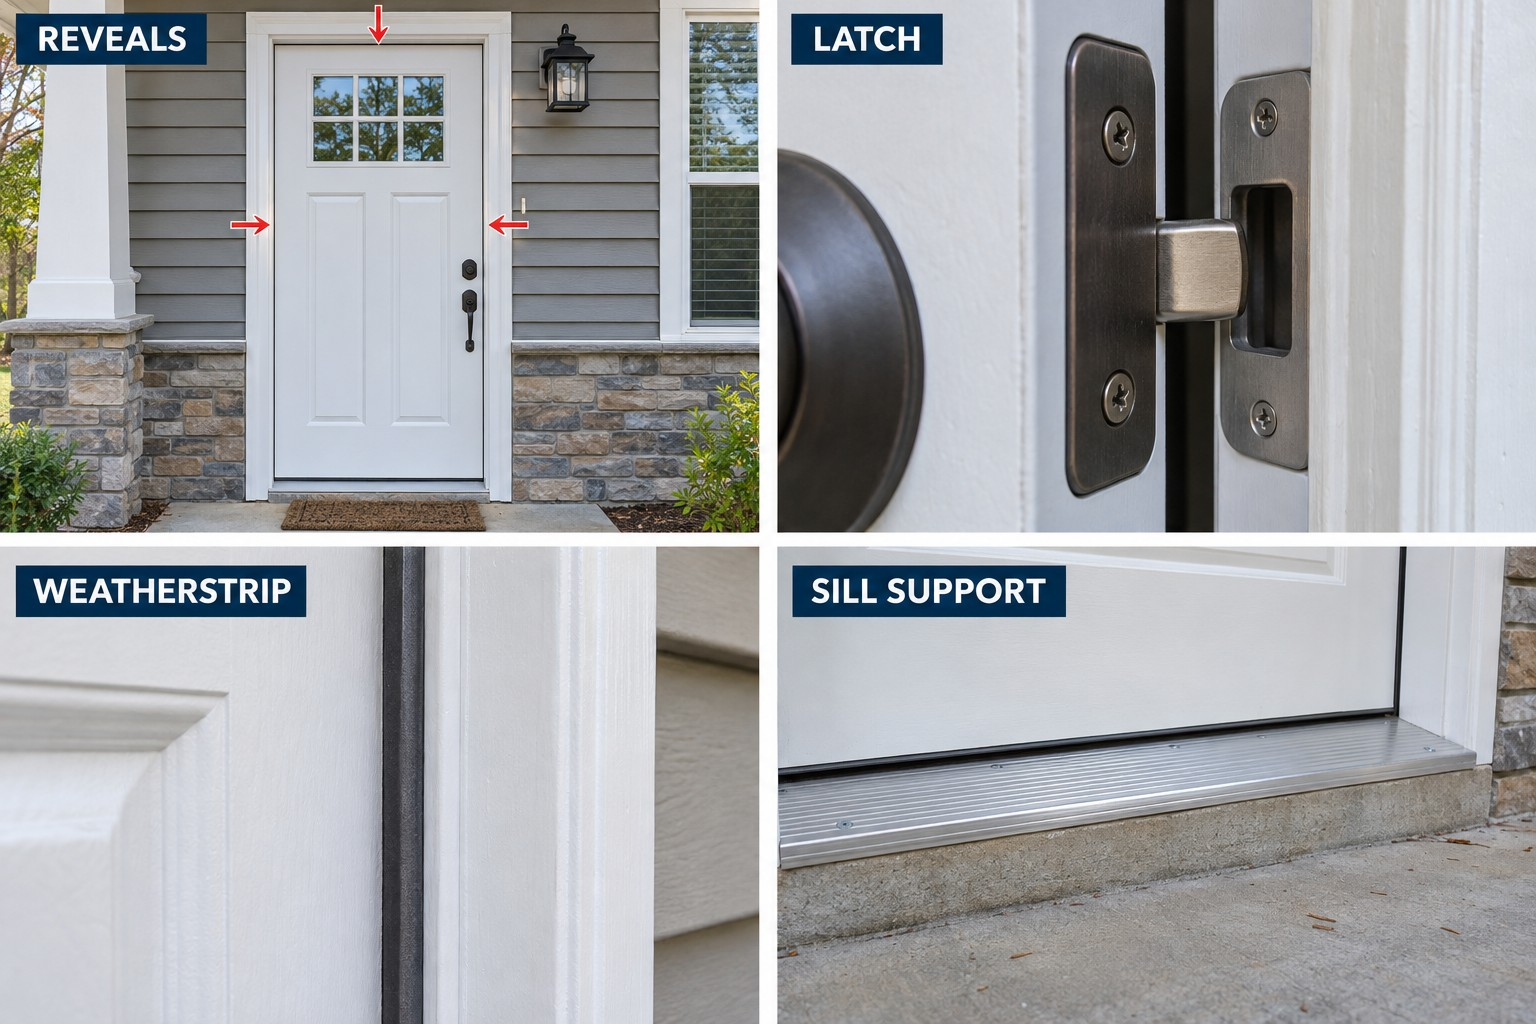
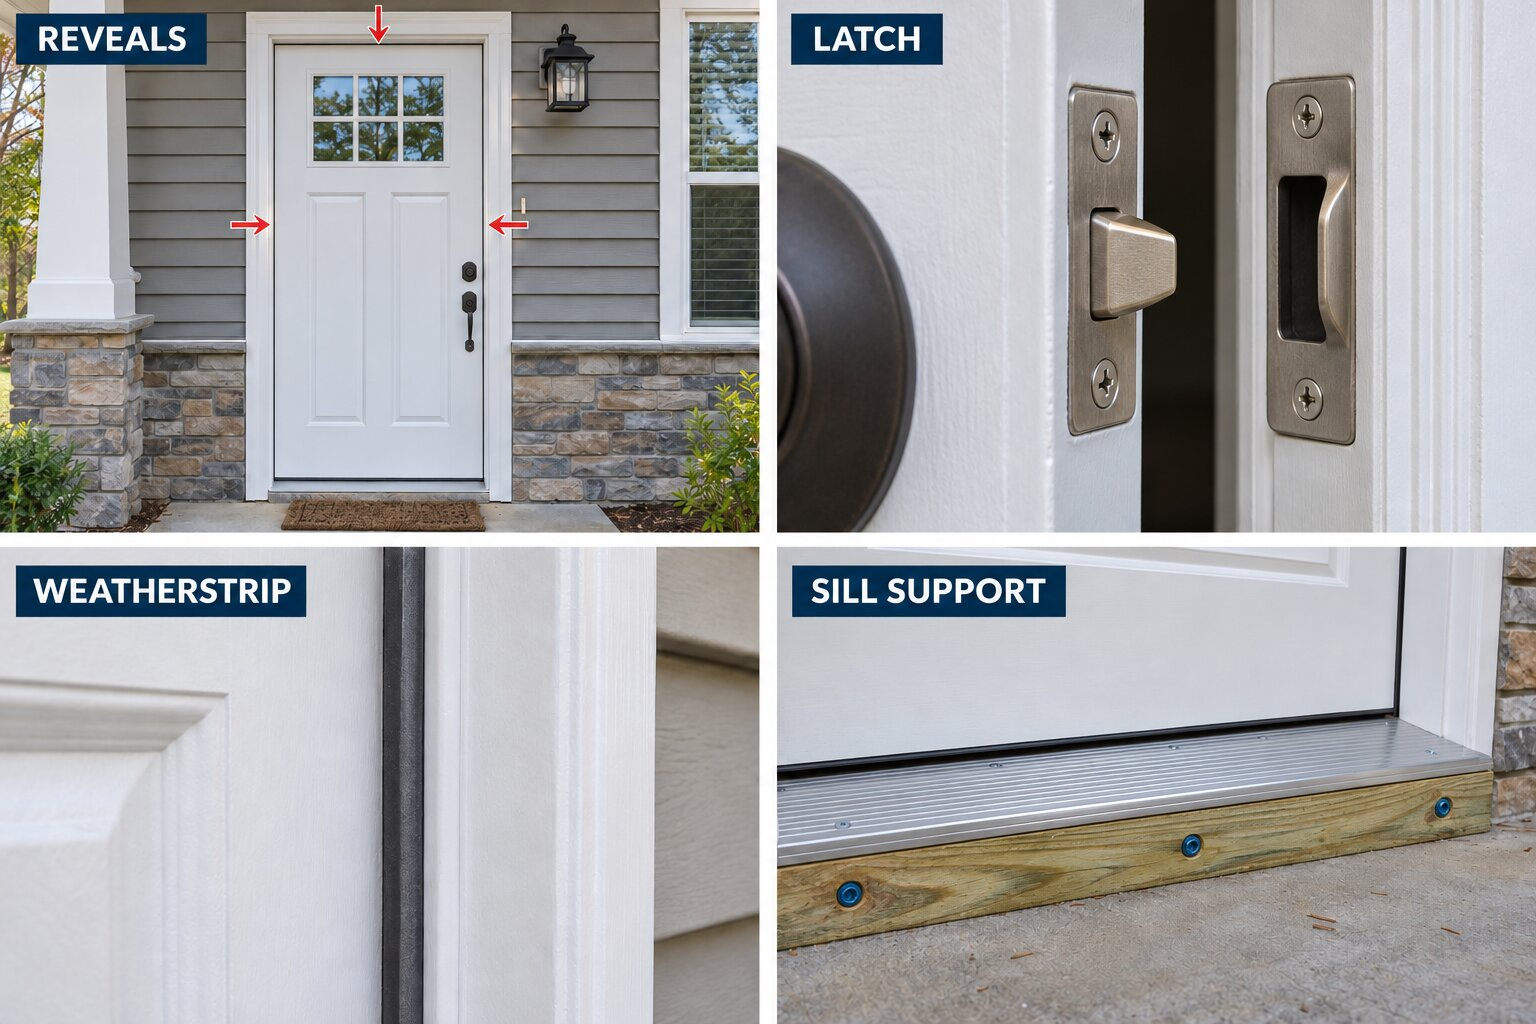
Remove instruction photo and correct latch and pressure-treated sill support examples

diff --git a/index.html b/index.html
@@ -2972,9 +2972,9 @@ are more likely to continue.
 <details class="wd-photo-example" id="wd-photo-rough-openings"><summary><strong>Rough Openings</strong></summary><figure style="margin:12px 0;"><img src="assets/wd-example-rough-openings.jpg" alt="Rough Openings photo documentation examples" loading="lazy" style="display:block;width:100%;height:auto;border-radius:8px;"><figcaption><p>Photograph opening width, height, both diagonals, and sill level, with a wide photo identifying the opening. Compare measurements with the applicable unit requirements and approved plans; document incorrect, damaged, or obstructed openings in Appwright and coordinate correction before installation.</p></figcaption></figure></details>
 <details class="wd-photo-example" id="wd-photo-damaged-material"><summary><strong>Damaged Material</strong></summary><figure style="margin:12px 0;"><img src="assets/wd-example-damaged-material.jpg" alt="Damaged Material photo documentation examples" loading="lazy" style="display:block;width:100%;height:auto;border-radius:8px;"><figcaption><p>Use a full-unit photo and close-ups to document cracked glass, frame damage, cracked corner welds, bent nail fins, and door slab or jamb damage. Identify the unit and location, record when damage was observed, and send the issue through Appwright.</p></figcaption></figure></details>
 <details class="wd-photo-example" id="wd-photo-flashing-sill"><summary><strong>Flashing &amp; Sill Preparation</strong></summary><figure style="margin:12px 0;"><img src="assets/wd-example-flashing-sill.jpg?v=20261106-flat-sill" alt="Flat window rough-opening sill with black flashing and corner transitions" loading="lazy" style="display:block;width:100%;height:auto;border-radius:8px;"><figcaption><p>Photograph sill preparation, corner transitions, and flashing materials during installation. Match each stage to the exact product’s current installation instructions and the approved project method. These views show what to document; they are not a universal flashing sequence or sealant detail.</p></figcaption></figure></details>
-<details class="wd-photo-example" id="wd-photo-setting-fastening"><summary><strong>Setting &amp; Fastening</strong></summary><figure style="margin:12px 0;"><img src="assets/wd-example-setting-fastening.jpg" alt="Setting and Fastening photo documentation examples" loading="lazy" style="display:block;width:100%;height:auto;border-radius:8px;"><figcaption><p>Document alignment, shims, clearances, and fastening before the work is concealed. Verify fastener type, location, spacing, penetration, and shim requirements against the applicable product instructions and approved details; do not use an example photo as the fastening schedule.</p></figcaption></figure></details>
+<details class="wd-photo-example" id="wd-photo-setting-fastening"><summary><strong>Setting &amp; Fastening</strong></summary><figure style="margin:12px 0;"><img src="assets/wd-example-setting-fastening.jpg?v=20261106-no-clipboard" alt="Setting and Fastening photo documentation examples" loading="lazy" style="display:block;width:100%;height:auto;border-radius:8px;"><figcaption><p>Document alignment, shims, clearances, and fastening before the work is concealed. Verify fastener type, location, spacing, penetration, and shim requirements against the applicable product instructions and approved details; do not use an example photo as the fastening schedule.</p></figcaption></figure></details>
 <details class="wd-photo-example" id="wd-photo-window-check"><summary><strong>Completed Window Check</strong></summary><figure style="margin:12px 0;"><img src="assets/wd-example-window-check.jpg" alt="Completed Window Check photo documentation examples" loading="lazy" style="display:block;width:100%;height:auto;border-radius:8px;"><figcaption><p>Operate and lock every unit. Photograph sash alignment, lock engagement, weatherstripping, and clear weep openings where applicable. Still photos support the record; physically verify smooth operation and document any binding or defects.</p></figcaption></figure></details>
-<details class="wd-photo-example" id="wd-photo-door-check"><summary><strong>Completed Door Check</strong></summary><figure style="margin:12px 0;"><img src="assets/wd-example-door-check.jpg" alt="Completed Door Check photo documentation examples" loading="lazy" style="display:block;width:100%;height:auto;border-radius:8px;"><figcaption><p>Check and photograph consistent reveals, smooth operation, latch/deadbolt engagement, weatherstripping, threshold condition, and sill support. Confirm support and sealing against the applicable door instructions and builder requirements, and document any daylight, binding, damage, or gaps.</p></figcaption></figure></details>
+<details class="wd-photo-example" id="wd-photo-door-check"><summary><strong>Completed Door Check</strong></summary><figure style="margin:12px 0;"><img src="assets/wd-example-door-check.jpg?v=20261106-latch-treated-support" alt="Door checks showing reveals, a spring latch and strike plate, weatherstripping, and a pressure-treated 2x sill support with blue Tapcon screws" loading="lazy" style="display:block;width:100%;height:auto;border-radius:8px;"><figcaption><p>Check and photograph consistent reveals, smooth operation, latch/deadbolt engagement, weatherstripping, threshold condition, and sill support. Confirm support and sealing against the applicable door instructions and builder requirements, and document any daylight, binding, damage, or gaps.</p></figcaption></figure></details>
 <details class="wd-photo-example" id="wd-photo-before-covering"><summary><strong>Before Covering</strong></summary><figure style="margin:12px 0;"><img src="assets/wd-example-before-covering.jpg" alt="Before Covering photo documentation examples" loading="lazy" style="display:block;width:100%;height:auto;border-radius:8px;"><figcaption><p>Capture wide location views and close-ups of installation details before interior trim or exterior cladding conceals them. Document shims, fastening, perimeter flashing, and transitions as applicable, and verify against the approved product-specific details.</p></figcaption></figure></details>
 <details class="wd-photo-example" id="wd-photo-final-walk"><summary><strong>Final Walk &amp; Cleanup</strong></summary><figure style="margin:12px 0;"><img src="assets/wd-example-final-walk.jpg" alt="Final Walk and Cleanup photo documentation examples" loading="lazy" style="display:block;width:100%;height:auto;border-radius:8px;"><figcaption><p>Upload completed elevation and interior condition photos, document product protection and cleanup, and identify any outstanding punch items by unit/location. Enter punch items in Appwright, make installer notes public as required, and coordinate the return visit when necessary.</p></figcaption></figure></details>
 <details class="wd-photo-example" id="wd-photo-service-request"><summary><strong>Service Requests</strong></summary><figure style="margin:12px 0;"><img src="assets/wd-example-service-request.jpg" alt="Service Requests photo documentation examples" loading="lazy" style="display:block;width:100%;height:auto;border-radius:8px;"><figcaption><p>Include a full-unit photo, a clear close-up of the issue, the actual product label, and a photo or room/location reference. Add the lot/address, unit identification, observed issue, and when it occurs to the Appwright request. The label and room sketch shown are examples.</p></figcaption></figure></details>
